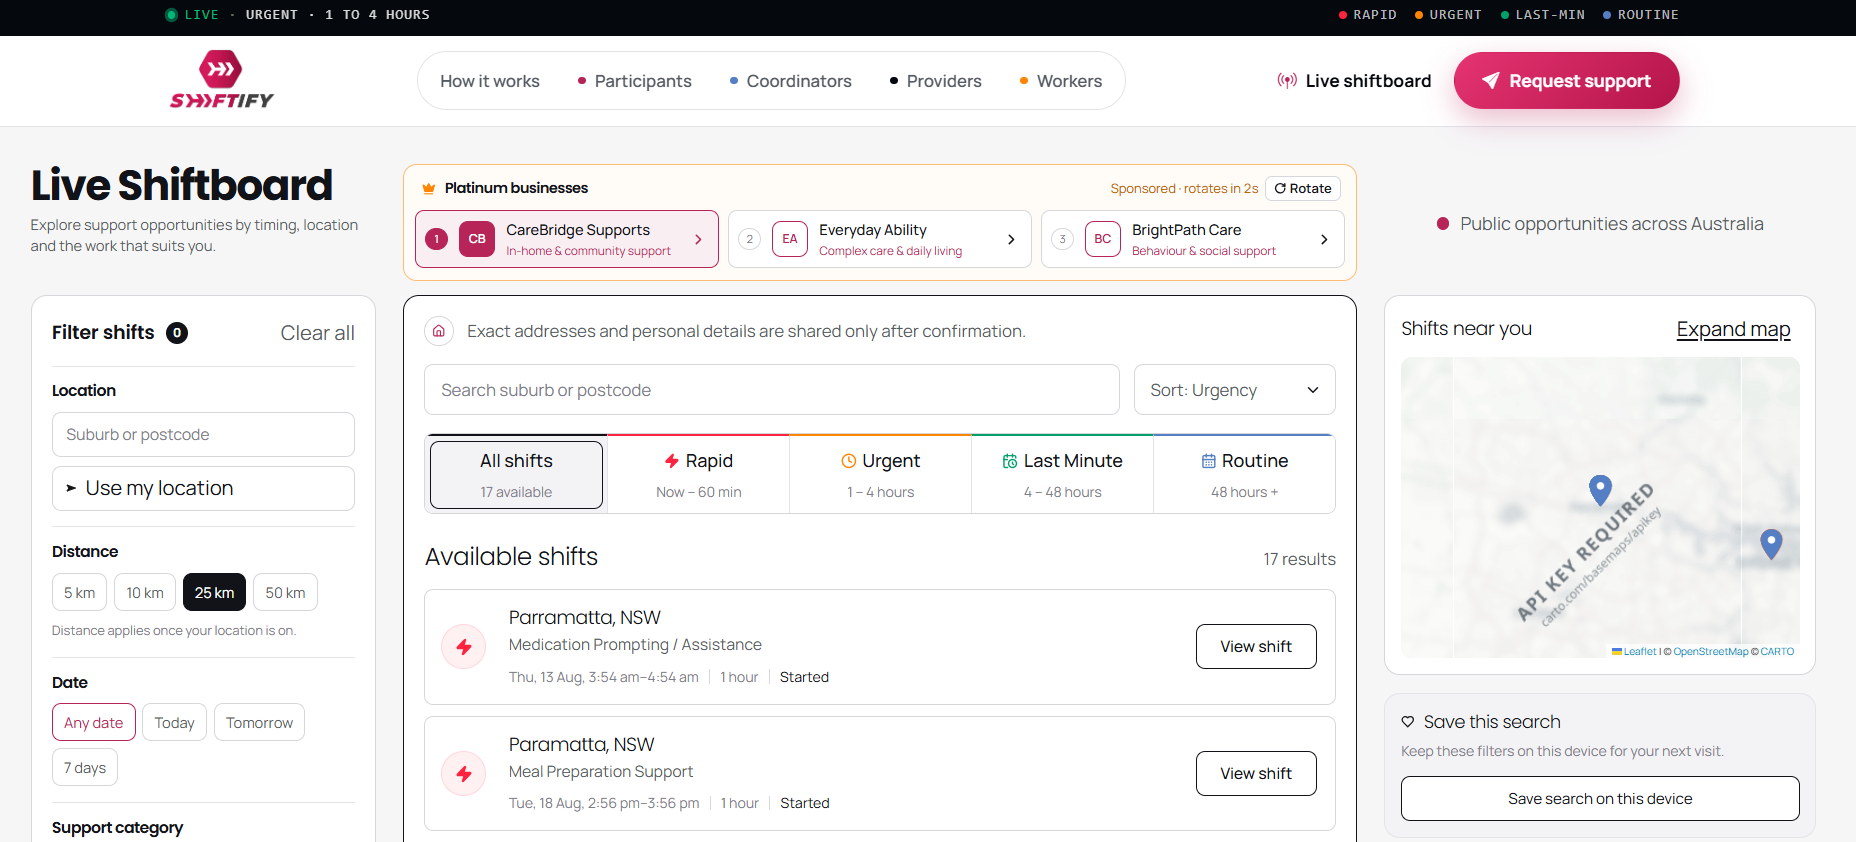
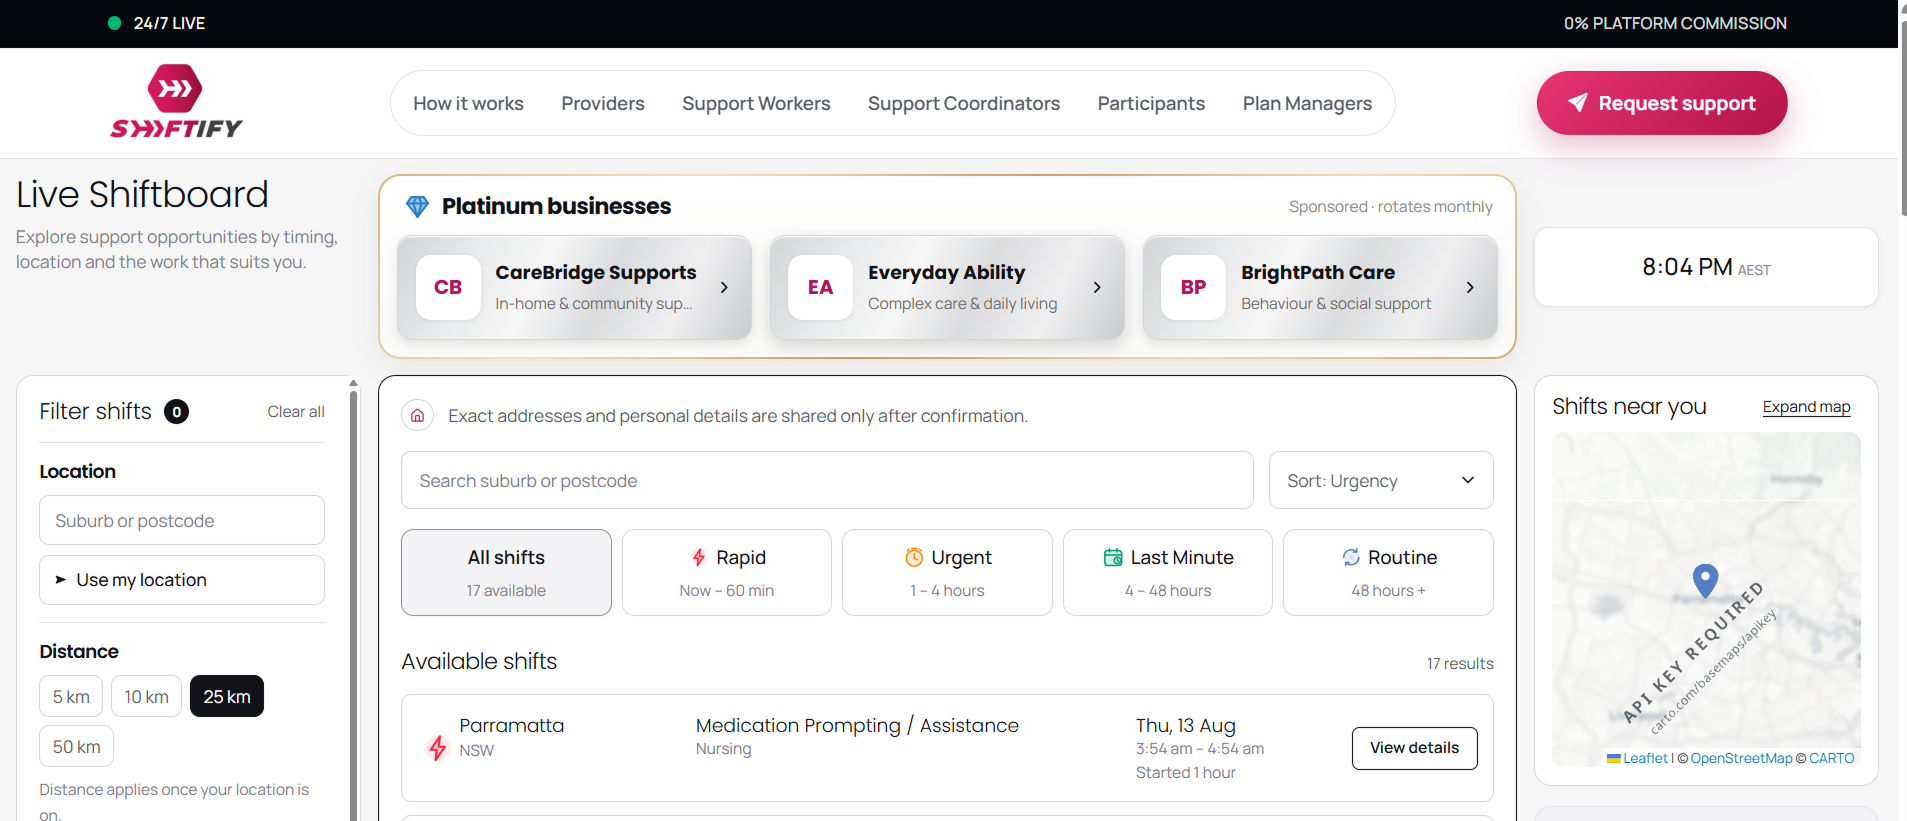
new c

diff --git a/app/home.css b/app/home.css
@@ -2585,7 +2585,7 @@
 .sf-laptop-screen {
   overflow: hidden;
   border-radius: 4px;
-  background: #F6F6F7;
+  background: #F6F6F6;
   container-type: inline-size;
 }
 .sf-laptop-base {
@@ -2617,7 +2617,7 @@
 
 /* The whole screenshot shows; the skeleton below continues its three
    columns (filters · shifts · side) at the same scale.
-   --u is one screenshot pixel (the image is 1856px wide). */
+   --u is one screenshot pixel (the image is 1907px wide). */
 .sf-laptop-screen img {
   display: block;
   width: 100%;
@@ -2626,20 +2626,20 @@
 
 /* --- placeholder columns under the screenshot ------------------ */
 .sf-place-skel {
-  --u: calc(100cqw / 1856);
+  --u: calc(100cqw / 1907);
   --skel-bar: #E9EAEC;
   display: grid;
-  grid-template-columns: 345fr 28fr 954fr 28fr 432fr;
+  grid-template-columns: 345fr 17fr 1139fr 17fr 345fr;
   align-items: stretch;
-  padding: 0 calc(var(--u) * 40) calc(var(--u) * 32) calc(var(--u) * 31);
-  background: #F6F6F7;
+  padding: 0 calc(var(--u) * 28) calc(var(--u) * 32) calc(var(--u) * 16);
+  background: #F6F6F6;
 }
 .sf-place-skel-col { display: flex; flex-direction: column; gap: calc(var(--u) * 20); min-width: 0; }
 .sf-place-skel-col.is-filters { grid-column: 1; }
 .sf-place-skel-col.is-shifts  { grid-column: 3; }
 .sf-place-skel-col.is-side    { grid-column: 5; }
 
-/* Filter and shift cards are cut open at the top by the screenshot's
+/* All three column cards are cut open at the top by the screenshot's
    bottom edge, so they carry on and close here. */
 .sf-place-skel-card {
   flex: 1;
@@ -2657,15 +2657,7 @@
   padding-top: calc(var(--u) * 11);
   border-color: var(--sf-heading);
 }
-/* Side cards start fresh below the screenshot's Save-search card. */
-.sf-place-skel-card.is-closed {
-  flex: none;
-  border-top: 1px solid var(--sf-line);
-  border-radius: calc(var(--u) * 20);
-  padding-top: calc(var(--u) * 22);
-}
-.is-side .sf-place-skel-card.is-closed:last-child { flex: 1; }
-.is-side { padding-top: calc(var(--u) * 20); }
+.is-side .sf-place-skel-card { padding-top: calc(var(--u) * 20); }
 
 .sf-place-skel-bar {
   display: block;

diff --git a/components/landing/home/PlatinumPlacementSection.tsx b/components/landing/home/PlatinumPlacementSection.tsx
@@ -175,7 +175,7 @@ export default function PlatinumPlacementSection() {
                     </div>
 
                     <div className="sf-place-skel-col is-side">
-                      <div className="sf-place-skel-card is-closed">
+                      <div className="sf-place-skel-card">
                         <span className="sf-place-skel-bar is-head is-w55" />
                         <span className="sf-place-skel-bar is-w90" />
                         <span className="sf-place-skel-btn is-wide" />
